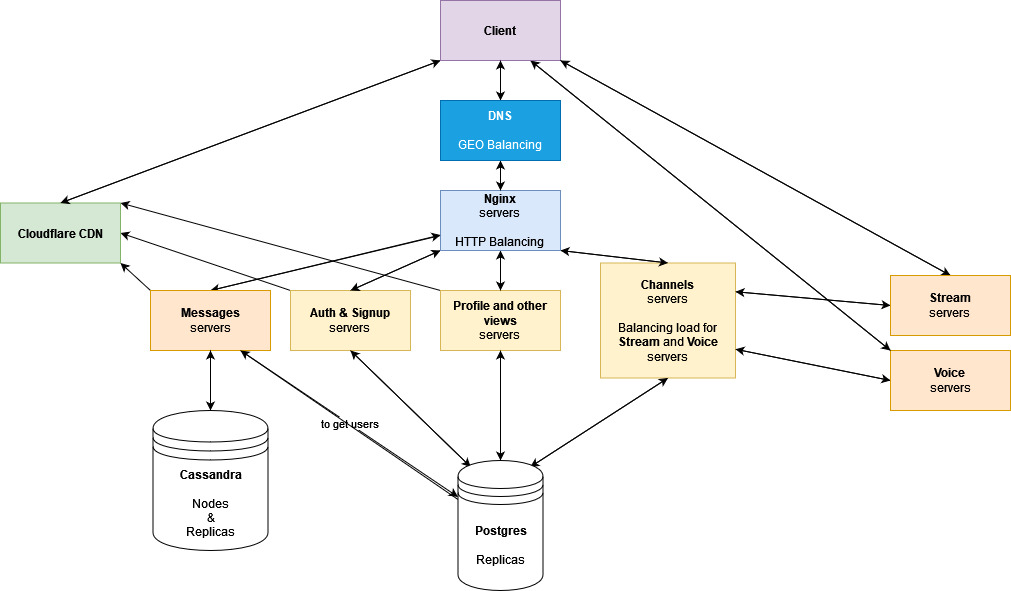
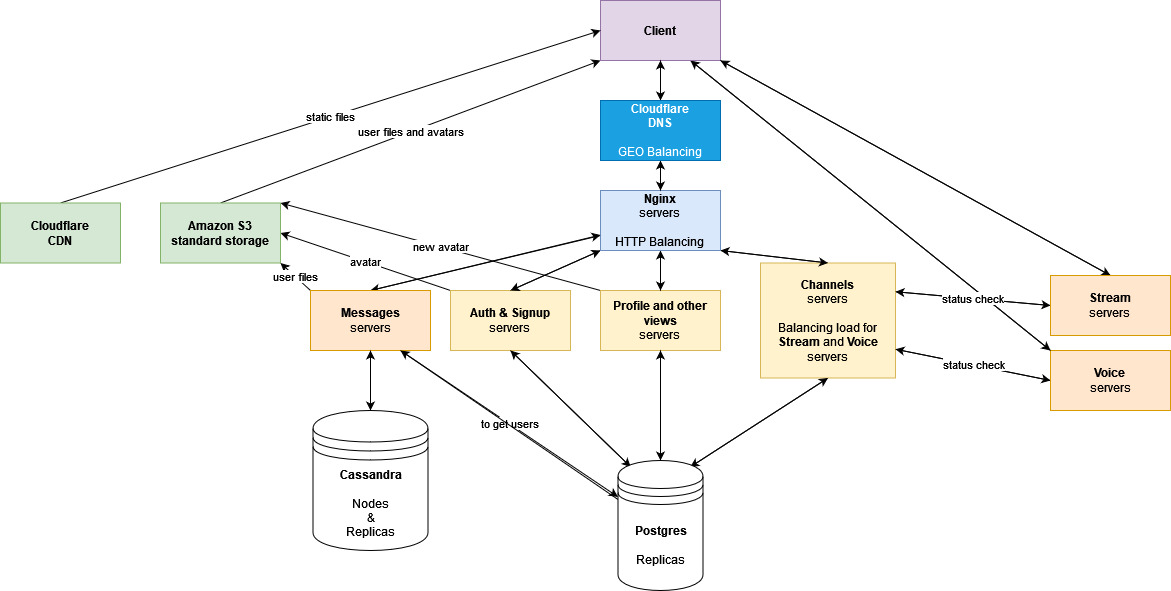
wip: fixes

diff --git a/README.md b/README.md
@@ -38,9 +38,10 @@ Discord - популярный мессенджер с поддержкой VoIP
 
 Не удалось найти точные данные, но по [количеству переходов](https://www.similarweb.com/website/discord.com/#overview) на сайт Discord, можно сделать вывод, что 30% пользователей приходится на Северную Америку, а остальные пользователи равномерно распределены по всему миру:
 1. Северная Америка (30%)
-2. Южная Америка (23%)
-3. Европа (23%)
-4. Азия (23%)
+2. Южная Америка (17.5%)
+3. Европа (17.5%)
+4. Азия (17.5%)
+5. Африка (17.5%)
 
 # 2. Расчет нагрузки
 
@@ -139,7 +140,7 @@ Discord - популярный мессенджер с поддержкой VoIP
 
 Сообщения:
 * 179.37 * 5 = **896.85 ГБайт/сутки**
-* 0.08 * 5 = **0.04 Гбит/с**
+* 0.08 * 5 = **0.4 Гбит/с**
 
 Файлы:
 * 19824.22 * 5 = **99121.1 ГБайт/сутки**
@@ -192,7 +193,7 @@ Discord - популярный мессенджер с поддержкой VoIP
 
 | Нагрузка                         | Пиковая (Гбит/с) | Суточная (ГБайт/сутки) |
 | :---                             | :----:           |                    ---:|
-| Просмотр сообщений               | 0.04             | 896.85                 |
+| Просмотр сообщений               | 0.4             | 896.85                 |
 | Просмотр файлов                  | 44               | 99121.1                |
 | Получение голоса                 | 3255.2           | 7324218.75             |
 | Получение трансляции             | 64780            | 145754814.14           |
@@ -263,11 +264,11 @@ Total RPS:
 **Остальные таблицы используются преимущественно на чтение с относительно небольшим кол-вом данных. Поэтому их можно хранить в Postgres и использовать репликацию для ускорения чтения.**
 
 ### users:
-* Для отображения сообщений в публичном канале необходимо узнать их автора. Для этого необходима высокая скорость чтения из таблицы с пользователями. Этого можно добиться с помощью репликации таблицы с пользователями.
+* Индекс на `id` для быстрого получения информации о пользователе по его `id` (при просмотре сообщений)
 * Индекс на `username` для быстрой авторизации
 
 ### channels:
-* Индекс на `server_id` для быстрого получения каналов сервера
+* Индекс на `server_id` для быстрого получения каналов сервера (при просмотре сервера пользователем)
 
 ### server_members
 * Индекс на `server_id` для быстрого получения списка пользователей сервера
@@ -281,7 +282,9 @@ Total RPS:
 | **Golang**   | Backend | Высокая скорость работы, надежность, удобство разработки |
 | **Postgres** | DB (users, channels, servers, server_members) | Надежность, легкость изменения структуры таблиц |
 | **Cassandra** |DB (messages) | Линейная масштабируемость, высокая скорость работы, очень высокая скорость записи больших объемов данных, высокая скорость чтения |
-| **Cloudflare** CDN         |  CDN (хранение статики, аватарок и файлов пользователей)  | Высокая скорость, сервера по всему миру |
+| **Cloudflare CDN** | CDN (хранение статики) | Высокая скорость, сервера по всему миру |
+| **Cloudflare Load Balancer** | DNS Load Balancing | Популярность, надежность, сервера по всему миру |
+| **Amazon S3**      | Storage (хранение аватарок и файлов пользователей) | высокий аптайм, высокая надежность, сервера по всему миру |
 | **VueJS**    | Frontend | Быстрая разработка производительного VDOM интерфейса |
 | **TypeScript** |Frontend  | Более высокая надежность в сравнении с JS за счёт наличия статической типизации |
 
@@ -301,18 +304,26 @@ Total RPS:
 
 # 7. Список серверов
 
-Географические регионы для размещения серверов:
-* Северная Америка
-* Южная Америка
-* Европа
-* Азия
-* Африка
+## Хранилище файлов
 
-Итого: 5 регионов
+Хранение и просмотр аватаров и файлов будет осуществляться с помощью [Amazon S3 standard storage](https://aws.amazon.com/s3/?did=ft_card&trk=ft_card).
 
-### Хранение и просмотр аватаров и файлов будет осуществляться CDN.
+Микросервис профиля будет получать аватарку от пользователя, сохранять в Amazon S3 и записывать ссылку в БД
 
-### Сервер с данными (Postgres)
+Микросервис сообщений будет получать файл от пользователя, сохранять в Amazon S3 и записывать ссылку в БД.
+
+Подсчитаем общий размер хранимых данных, используя данные суточного траффика:
+1. Аватарки: 136.72 ГБ = 0.15 ТБ/сутки => 0.15 * 365 * 3 = 164 ТБ
+2. Файлы: 19824.22 ГБ = 20 ТБ/сутки => 20 * 365 * 3 = 21900 ТБ
+3. Итого: **22 ПБ** файлов
+4. Хранилище должно хранить, с учётом запаса, **30 ПБ**
+
+Основное хранилище разместим в Северной Америке, т.к. там больше всего пользователей. 
+Для ускорения доступа можно сделать реплику хранилища в Европе.
+Создавать дополнительные реплики нецелесообразно, т.к. при таком объеме хранилища цена будет очень высокой.
+Кеширование позволит сгладить задержки для пользователей при просмотре файлов и аватарок, а задержка на запись будет не критичной.
+
+## Сервер с данными (Postgres)
 
 **RAM**
 * Необходимо достаточно большое кол-во RAM для эффективной работы индексов
@@ -322,25 +333,49 @@ Total RPS:
 
 **Storage**
 * 110 ГБ - размер базы, с запасом - 200 ГБ
-* Стоит использовать RAID1 для повышения надежности
 
 | Параметр   | Значение |
 | :----:     |      :---|
-| CPU        | 4 ядра      |
+| CPU        | 8 ядер      |
 | RAM        | 16 ГБ     |
-| Storage    | 200 ГБ (2 RAID1 SSD) |
+| Storage    | 200 ГБ (2 RAID1 NVMe) |
 | Network    | 100 Мбит/с |
 
-С учётом репликации на гео-зоны получим **5 серверов**
+Для отображения сообщений в публичном канале необходимо узнать информацию об авторе (логин, аватарка).
+Из-за большого кол-ва сообщений в каналах это создаст большую нагрузку на чтение из таблицы **users**.
 
+Просмотр сервера с большим кол-вом пользователей создаст большую нагрузку на чтение из таблицы 
+**server_members** (чтобы получить список ``user_id``),
+а затем и из таблицы **users** (чтобы получить логин и аватарку)
+
+В то же время, запросы на запись будут выполняться значительно быстрее.
+
+Чтобы ускорить выполнение запросов на чтение стоит использовать репликацию. 
+Т. к. размер всей базы не очень большой и большую часть занимают таблицы с высокой нагрузкой -
+можно реплицировать всю базу данных.
+
+Разместим в каждом регионе по 2 базы данных и увеличим их кол-во при необходимости.
+
+### Географическое распределение
+
+Сервер с главной БД стоит разместить в Северной Америке, т.к. там наибольшее число пользователей.
 Запись будет возможна только в главную БД, с пингом до [250 мс](https://wondernetwork.com/pings), что является приемлемым:
-* фронтенд сделает пинг незаметным для пользователя
-* чтение гораздо чаще записи и будет производиться из близлежащих БД
+* фронтенд сделает пинг при записи незаметным для пользователя
+* чтение гораздо чаще записи и будет производиться из близлежащих реплик БД
 
-### Голосовые сервера
+### Отказоустойчивость
 
-Задержка (пинг) при передаче голоса должна быть минимальной, иначе качество общения будет неудовлеворительным.
-По этой причине голосовые сервера необходимо достаточно плотно распределить по миру, в зависимости от процента пользователей.
+В каждом регионе минимум 2 базы, разместим их в разных дата-центрах.
+
+RAID1 защитит от выхода из строя 1 накопителя.
+
+В случае падения "главной" базы данных произойдет переключение на одну из реплик.
+
+### Количество серверов
+
+5 регионов * 2 сервера = **10 серверов**
+
+## Голосовые сервера
 
 **CPU**:
 * Перекодирование голоса - требовательная операция к CPU, поэтому необходимо большое кол-во ядер.
@@ -360,12 +395,23 @@ Total RPS:
 | :----:     |      :---|
 | CPU       | 16 ядер      |
 | RAM        | 2 ГБ     |
-| Storage    | 40 ГБ     |
+| Storage    | 40 ГБ    |
 | Network    | 10 Гбит/с |
 
-Тогда нам потребуется 8137 / 10 = **814 серверов**
+### Географическое распределение
 
-### Сервера трансляций
+Сервера можно равномерно распределить по регионам, в зависимости от процента пользователей.
+
+### Отказоустойчивость
+
+При отказе сервера, микросервис звонков распределит нагрузку на другие сервера, 
+запас которых обеспечен (см. Network).
+
+### Количество серверов
+
+Нам потребуется 8137 / 10 = **814 серверов**
+
+## Сервера трансляций
 
 Аналогично с голосовыми серверами, но кодирование видео более требовательно к CPU
 
@@ -381,17 +427,28 @@ Total RPS:
 | Storage    | 40 ГБ |
 | Network    | 40 Гбит/с |
 
-Тогда нам потребуется 121462.5 / 40 = **3037 серверов\***
+### Географическое распределение
+
+Сервера можно равномерно распределить по регионам, в зависимости от процента пользователей.
+
+### Отказоустойчивость
+
+При отказе сервера, микросервис трансляций распределит нагрузку на другие сервера,
+запас которых обеспечен (см. Network).
+
+### Количество серверов
+
+Нам потребуется 121462.5 / 40 = **3037 серверов\***
 
 *\* - ввиду очень больших затрат на поддержание работы трансляций (что не очень сочетается с MVP), имеет смысл либо ограничить данную функцию только для пользователей с подпиской (и таким образом уменьшить трафик), либо временно реализовать её в виде P2P сети и переложить нагрузку на пользователей.*
 
-### Сервера сообщений (Cassandra)
+## Сервера сообщений (Cassandra)
 
 Данные сервера должны сохранять и отдавать все сообщения всех пользователей. Сообщения хранятся в Cassandra.
 
 **Необходимый размер хранилища сообщений:**
 * Размер всех сообщений: 1936 ТБ
-* Запас на ближайшее будущее (25%): 1936 * 0.25 = 484 ТБ
+* Обеспечим запас в 25%: 1936 * 0.25 = 484 ТБ
 * Итого: 1936 + 484 = 2420 ТБ
 
 **CPU**:
@@ -401,9 +458,9 @@ Total RPS:
 * В соответствии с [документацией Cassandra](https://cassandra.apache.org/doc/latest/cassandra/operating/hardware.html) - типичный объем RAM сервера - 32 ГБ
 
 **Storage:**
-* Максимальный объём широко распространённого HDD - [18 ТБ](https://www.dns-shop.ru/catalog/17aa4e3216404e77/servernye-hdd/?f[k8f]=ukazm)
-* Т. к. сообщения читаются в 5 раз чаще, чем записываются, а также с целью обеспечения надежности будем использовать RAID4. Также будет возможность расширить объем хранилища без перезапуска сверера.
-* В каждый сервер поместим по 6 HDD => (6 - 1) * 18 = 90 ТБ
+* Максимальный объём широко распространённого HDD - [18 ТБ](https://www.dns-shop.ru/product/51bccfe5edb73332/35-servernyj-nakopitel-wd-ultrastar-dc-hc550-0f38353/)
+* Для увеличения скорости записи, чтения и обеспечения отказоустойчивости будем использовать RAID10.
+* В каждый сервер поместим по 8 HDD => (8 / 2) * 18 = 72 ТБ
 
 **Network:**
 * При достаточном кол-ве серверов, пиковая сетевая нагрузка на каждый из них будет не очень большой
@@ -412,12 +469,16 @@ Total RPS:
 | :----:     |      :---|
 | CPU        | 8 ядер |
 | RAM        | 32 ГБ  |
-| Storage    | 90 ТБ (6 RAID4 HDD)  |
+| Storage    | 72 ТБ (8 RAID10 HDD)  |
 | Network    | 1 Гбит/с |
 
-Тогда нам потребуется 2420 / 90 = **27 серверов**
+### Отказоустойчивость
 
-### Nginx
+### Количество серверов
+
+Тогда нам потребуется 2420 / 72 = **34 сервера**
+
+## Nginx
 
 **CPU:**
 * 71296 RPS / 5 регионов = 14259 RPS
@@ -434,9 +495,13 @@ Total RPS:
 | Storage    | 40 ГБ  |
 | Network    | 2 Гбит/с |
 
+### Отказоустойчивость
+
+### Количество серверов
+
 С учетом регинов: **5 серверов**
 
-### Микросервисы
+## Микросервисы
 
 Авторизация, регистрация, балансировка трансляций и голоса и т. п.
 
@@ -447,12 +512,28 @@ Total RPS:
 | CPU        | 4 ядра |
 | RAM        | 2 ГБ  |
 | Storage    | 40 ГБ  |
-| Network    | 100 Мбит/с\* |
+| Network    | 100 Мбит/с или 2 Гбит/с\* |
 
-\* Серверу сообщений необходимо 2 Гбит/с пропускной способности, т.к. через него будут проходить файлы.
+\* Серверу сообщений необходимо 2 Гбит/с пропускной способности, т.к. через него будут проходить файлы, которые он будет отправлять в Amazon S3 storage.
+
+### Отказоустойчивость
+
+### Количество серверов
 
 4 микросервиса и 5 регионов
 
 4 * 5 = **20 серверов**
 
 Т. к. Nginx настроен на балансировку - можно будет добавить сервера по мере необходимости
+
+## Сводная таблица
+
+| Сервер             | Всего  | Северная Америка | Южная Америка | Европа | Азия   |
+| :----:             | :----: | :----:           | :----:        | :----: | :----: | 
+| Хранилище файлов   | 2    | 1 (AS3)| - | 1 (AS3 repl) | - |
+| Postgres           | 10   | 2   | 2   | 2   | 2   |
+| Голосовые сервера  | 814  | 244 | 143 | 143 | 143 |
+| Сервера трансляций | 3037 | 911 | 532 | 532 | 532 |
+| Сервера сообщений  | | | | 
+| Nginx              | | | | 
+| Микросервисы       | | | |
